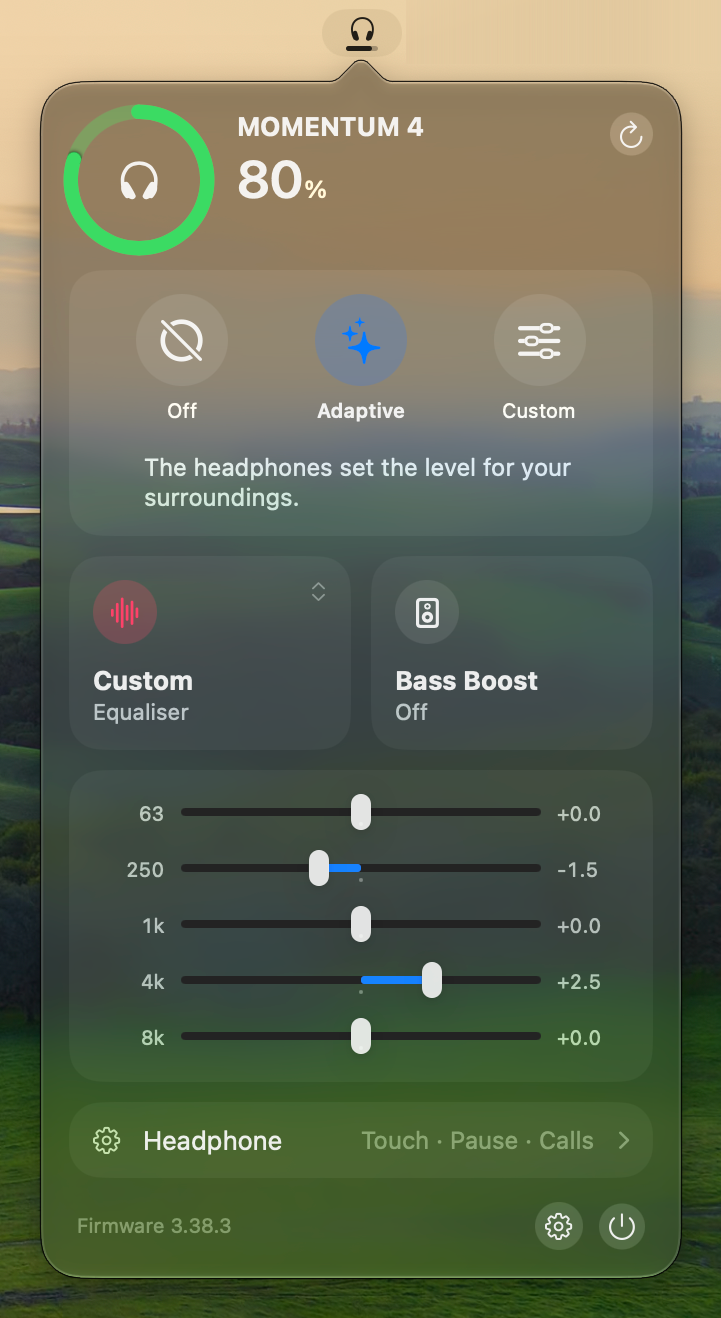
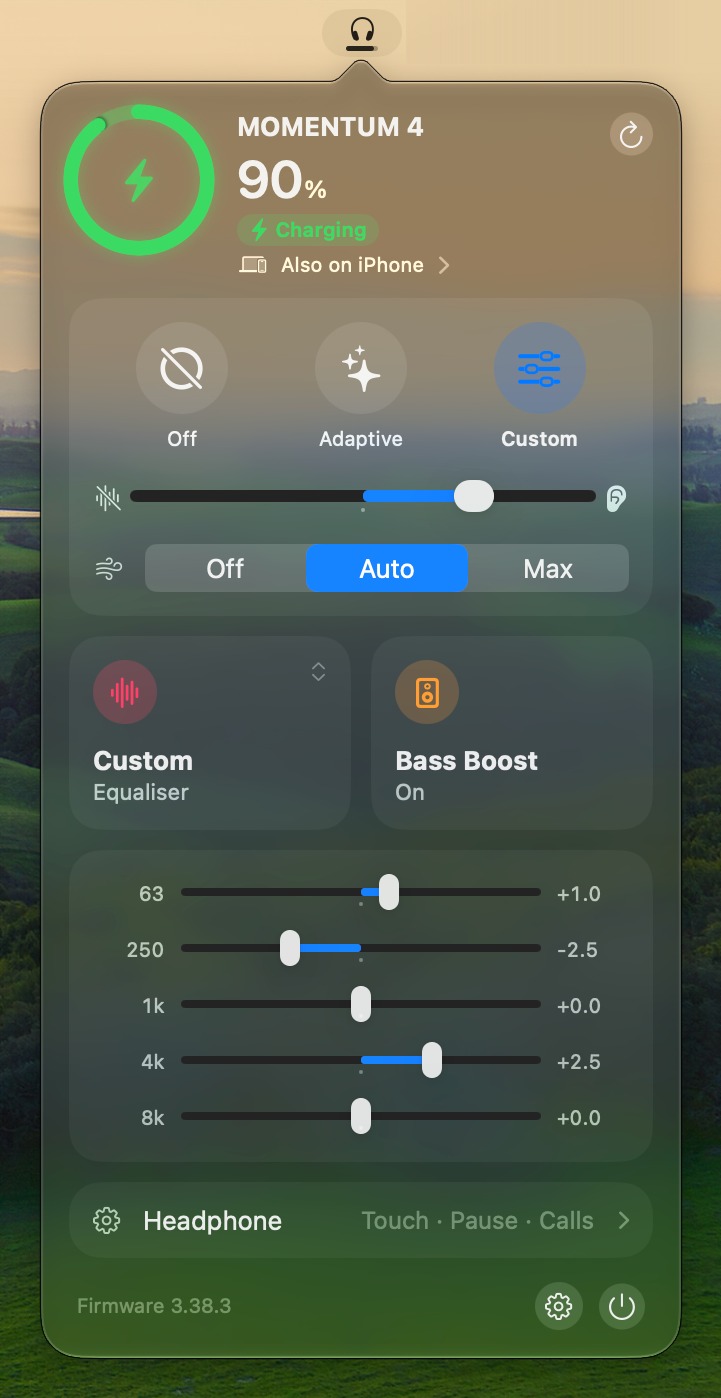
Retake README screenshots for paired devices
- Every popover shot is retaken with the device line under the battery,
  and a Paired devices shot is added. Charged goes, since Charging shows
  the same ring. The three noise modes now each appear once.
- Settings is retaken with the paired-device types.
- The grid is three columns of two shots, paired so the columns end
  near level; the short hand-over shot left a hole in a row layout. It
  is captioned Disconnected now.
- The protocol notes cover the 0x14xx group and the firmware gate on
  0x1403. The deny-list bullet no longer calls 0x1403 a pairing eraser
  on every firmware or the three setters index commands.
- Shots use the demoDeviceNames switch, which the README now documents.

diff --git a/README.md b/README.md
@@ -2,16 +2,21 @@
 
 A macOS menu bar app for the Sennheiser MOMENTUM 4.
 
+<!-- One row of three columns, two shots each, paired so the columns end near level. -->
 <table>
   <tr>
-    <td valign="top" align="center"><img src="docs/charged.png" alt="Charged: a full green ring with a still bolt and a Charged pill, noise control off." width="260"><br>Charged</td>
-    <td valign="top" align="center"><img src="docs/handed-over.png" alt="Handed over: this Mac has let go of the headphones, with Reconnect and Quit." width="260"><br>Handed over</td>
-    <td valign="top" align="center"><img src="docs/settings.png" alt="The Settings window: launch at login, menu bar options, the app icon picker and About." width="260"><br>Settings</td>
-  </tr>
-  <tr>
-    <td valign="top" align="center"><img src="docs/charging.png" alt="Charging: a green bolt in the ring, a Charging pill and the codec playing, with Custom noise control and anti-wind." width="260"><br>Charging</td>
-    <td valign="top" align="center"><img src="docs/equaliser.png" alt="Adaptive noise control, and the five equaliser band sliders open." width="260"><br>Equaliser bands</td>
-    <td valign="top" align="center"><img src="docs/headphone-settings.png" alt="The Headphone row open: touch controls, on-head detection, Smart Pause, auto-answer and Comfort Calls." width="260"><br>Headphone settings</td>
+    <td valign="top" align="center">
+      <img src="docs/charging.png" alt="Charging: a green bolt in the ring, a Charging pill beside aptX at 44.1 kHz, Also on iPhone, and Adaptive noise control." width="260"><br>Charging<br><br>
+      <img src="docs/headphone-settings.png" alt="Noise control off, and the Headphone row open: touch controls, on-head detection, Smart Pause, auto-answer and Comfort Calls." width="260"><br>Headphone settings
+    </td>
+    <td valign="top" align="center">
+      <img src="docs/paired-devices.png" alt="The paired devices open under the battery: iPhone connected, this Mac, and iPad with Connect dimmed because both slots are taken." width="260"><br>Paired devices<br><br>
+      <img src="docs/settings.png" alt="The Settings window: launch at login, menu bar options, the app icon picker, a type for each paired device, and About." width="260"><br>Settings
+    </td>
+    <td valign="top" align="center">
+      <img src="docs/equaliser.png" alt="Custom noise control with the level slider and anti-wind on Auto, and the five equaliser band sliders open." width="260"><br>Equaliser bands<br><br>
+      <img src="docs/disconnected.png" alt="Disconnected: this Mac has let go of the headphones, with Reconnect and Quit." width="260"><br>Disconnected
+    </td>
   </tr>
 </table>
 
@@ -29,6 +34,8 @@ open -a MomentumMenu
 
 - The ad hoc signature changes on every build, so macOS may ask for Bluetooth permission again after an install.
 - Left click for the popover. Right click for Settings, Refresh, Disconnect and Quit.
+- The line under the battery opens the paired devices, to connect or disconnect one. Settings sets each device's icon.
+- For screenshots, `defaults write com.agrmohit.momentummenu demoDeviceNames -bool YES` shows stock device names until `defaults delete` and a relaunch.
 - Settings > App Icon picks Starfield (bundled), Sleepy or Ghost, and the app sets the choice again at launch. A non-default icon adds a Finder attribute that fails `codesign --strict`; the plain check passes.
 - `swift test` runs the suite without hardware.
 
@@ -38,17 +45,19 @@ GAIA v3 frames start `FF 03 00 LL`, then the vendor (`0x0495`) and the command i
 
 | What | Ids | Notes |
 | --- | --- | --- |
-| Subscribe | `0x0007` | The device pushes nothing for a feature until it is registered. The app registers battery, ANC, EQ, transparency and audio (feature 4). |
+| Subscribe | `0x0007` | The device pushes nothing for a feature until it is registered. The app registers battery, ANC, EQ, transparency, audio (feature 4) and device management (feature 10). |
 | Battery | `0x0603` | Steps of 10 only. HFP and Qualcomm's `001D:1A01` give the same steps, so finer is not possible. |
 | Codec | `0x0800` read, `0x0880` push | One byte, Smart Control's enum: 0 SBC, 1 AAC, 2 aptX, 3 aptX LL, 5 aptX HD, 8 aptX Adaptive, 9 aptX Lossless, 10 LC3, `FF` none. 11 is seen but unexplained. |
 | Sample rate | `0x089A` push | u32 big-endian Hz. Covers whichever device is streaming. |
 | Noise mode table | `0x1A00` | Adaptive is written as an `[id, value]` pair, or the whole table where the pair is rejected; anti-wind always as the whole table. A write can reset the level, so the app skips no-op writes and reads the level back after the rest. |
 | EQ and bass boost | `0x10xx` | Firmware 3.x only; 2.x rejects them with `0x05`. |
+| Paired devices | `0x1400`-`0x1409`, `0x1484` push | Count, own index, limit (2), then `[index, priority, connected, name, 00]` per index. Addressed by index only, and indexes can reorder, so the list is re-read before any connect (`0x1402`) or disconnect (`0x1403`). |
 
 Safety lives in [`Commands.swift`](Sources/M4Core/Gaia/Commands.swift):
 
 - An allow-list of every id the app sends, with exact payload rules. Anything else is refused before it reaches the radio.
-- A deny-list underneath: `0x0607`, `0x0613` and `0x0685` drop the link, and `0x1403` silently forgets a paired device. `0x0801`, `0x0805` and `0x0817` act on a paired-device index, with unknown effect.
+- A deny-list underneath: `0x0607`, `0x0613` and `0x0685` drop the link. `0x0801`, `0x0805` and `0x0817` are setters the app does not use.
+- `0x1403` disconnects a paired device on firmware 3.38.3 but erased a pairing on 2.13.42, so it is refused below 3.38.3. The deletes `0x1405` and `0x1406` are never sent.
 - Frames for any vendor other than `0x0495` are refused.
 - Never sweep id ranges against real headphones.
 
@@ -57,7 +66,7 @@ Safety lives in [`Commands.swift`](Sources/M4Core/Gaia/Commands.swift):
 - [andr3-santos/momentum-menu](https://github.com/andr3-santos/momentum-menu): the repo this is forked from.
 - [DanSmith888/omarchy-momentum4](https://github.com/DanSmith888/omarchy-momentum4): `PROTOCOL.md`, the presets and the hazard list.
 - [gjabell/momentumctl](https://github.com/gjabell/momentumctl): frame format and the captured test vectors.
-- [Tumult1337/momentum4-control](https://github.com/Tumult1337/momentum4-control): the GAIA SDP service UUID and EQ payloads.
+- [Tumult1337/momentum4-control](https://github.com/Tumult1337/momentum4-control): the GAIA SDP service UUID, EQ payloads, and the multipoint commands and captures.
 - [stefanfmeyer/smart-connect-bt-audio](https://github.com/stefanfmeyer/smart-connect-bt-audio): GAIA over BLE and cross-checked ids.
 
 Not affiliated with Sennheiser or Sonova.
